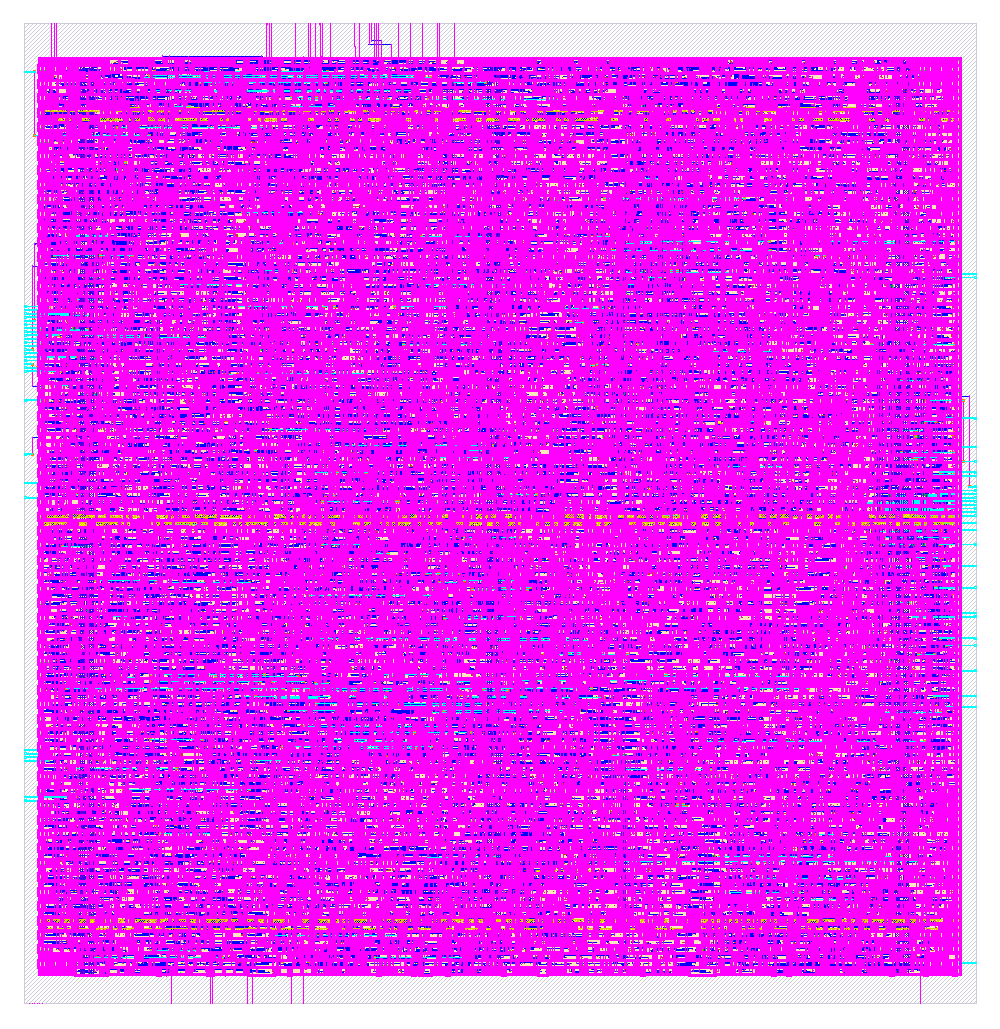
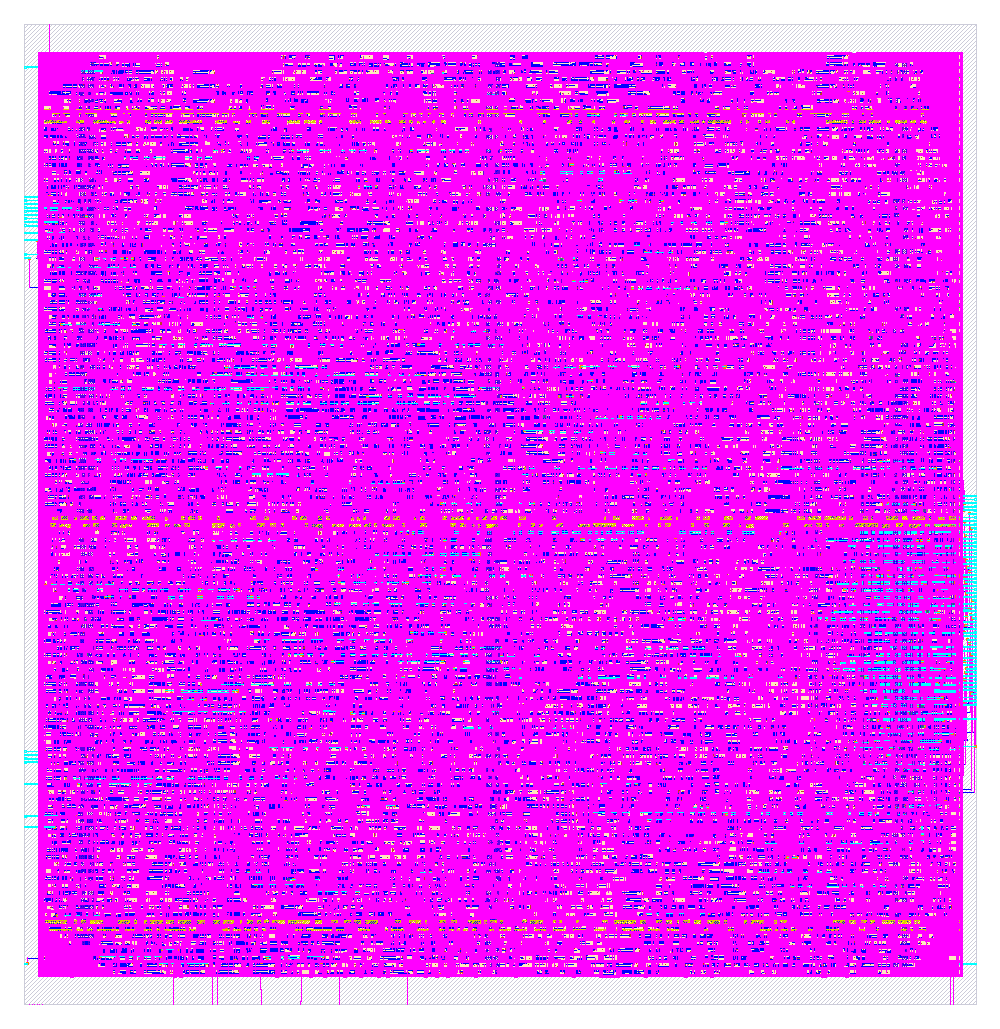
Switch default regime to maze (F=0.030, k=0.057); refresh renders + sign-off
Connected labyrinth pattern instead of scattered spots. Updated GIF, still
image and layout render; sign-off numbers refreshed for the new constants
(bit-exact vs golden re-verified over 150 frames).

Changed region(s): [[0.0, 0.0311, 0.992, 0.964]]

diff --git a/tb/test_rd_engine.py b/tb/test_rd_engine.py
@@ -11,7 +11,7 @@ GW, GH = 32, 32
 N_FRAMES = 150
 FRAC = 12
 ONE = 1 << FRAC
-Du, Dv, F, k = 655, 328, 238, 258
+Du, Dv, F, k = 655, 328, 123, 233
 WD, WO, WC = 205, 819, 4096
 FK = F + k
 

diff --git a/README.md b/README.md
@@ -59,9 +59,9 @@ produces bit-identical output to a software reference, every time.
 Each cell reads its 8 toroidal neighbours and applies a 9-point Laplacian
 (Pearson kernel: 0.05 on diagonals, 0.20 on orthogonals, −1.0 on the centre),
 then steps both fields. No floating point and no division anywhere — only
-additions, shifts and small fixed-point multiplies. The default **labyrinth**
-regime (`F = 0.058`, `k = 0.063`) fills the grid with maze-like worms; other
-`(F, k)` pairs give spots, mitosis and coral textures.
+additions, shifts and small fixed-point multiplies. The default **maze**
+regime (`F = 0.030`, `k = 0.057`) fills the grid with a connected labyrinth;
+other `(F, k)` pairs give spots, worms, mitosis and coral textures.
 
 ## Block diagram
 
@@ -166,13 +166,13 @@ The render below is the actual placed-and-routed layout.
 | Metric              | Value                              |
 |---------------------|------------------------------------|
 | Process             | SkyWater sky130 (130 nm)           |
-| Standard cells      | 20,795                             |
-| Core area           | 119,971 µm²                        |
-| Core utilization    | 70 %                               |
+| Standard cells      | 21,048                             |
+| Core area           | 121,236 µm²                        |
+| Core utilization    | 69 %                               |
 | Clock               | 28 ns (≈ 36 MHz); path floor ≈ 19 ns |
-| Setup worst slack   | **+3.82 ns (MET)**                 |
+| Setup worst slack   | **+3.73 ns (MET)**                 |
 | Hold worst slack    | **+0.10 ns (MET)**                 |
-| Total power         | 20.8 mW                            |
+| Total power         | 21.8 mW                            |
 | Magic + KLayout DRC | **0 violations**                   |
 | Netgen LVS          | **0 errors (match)**               |
 